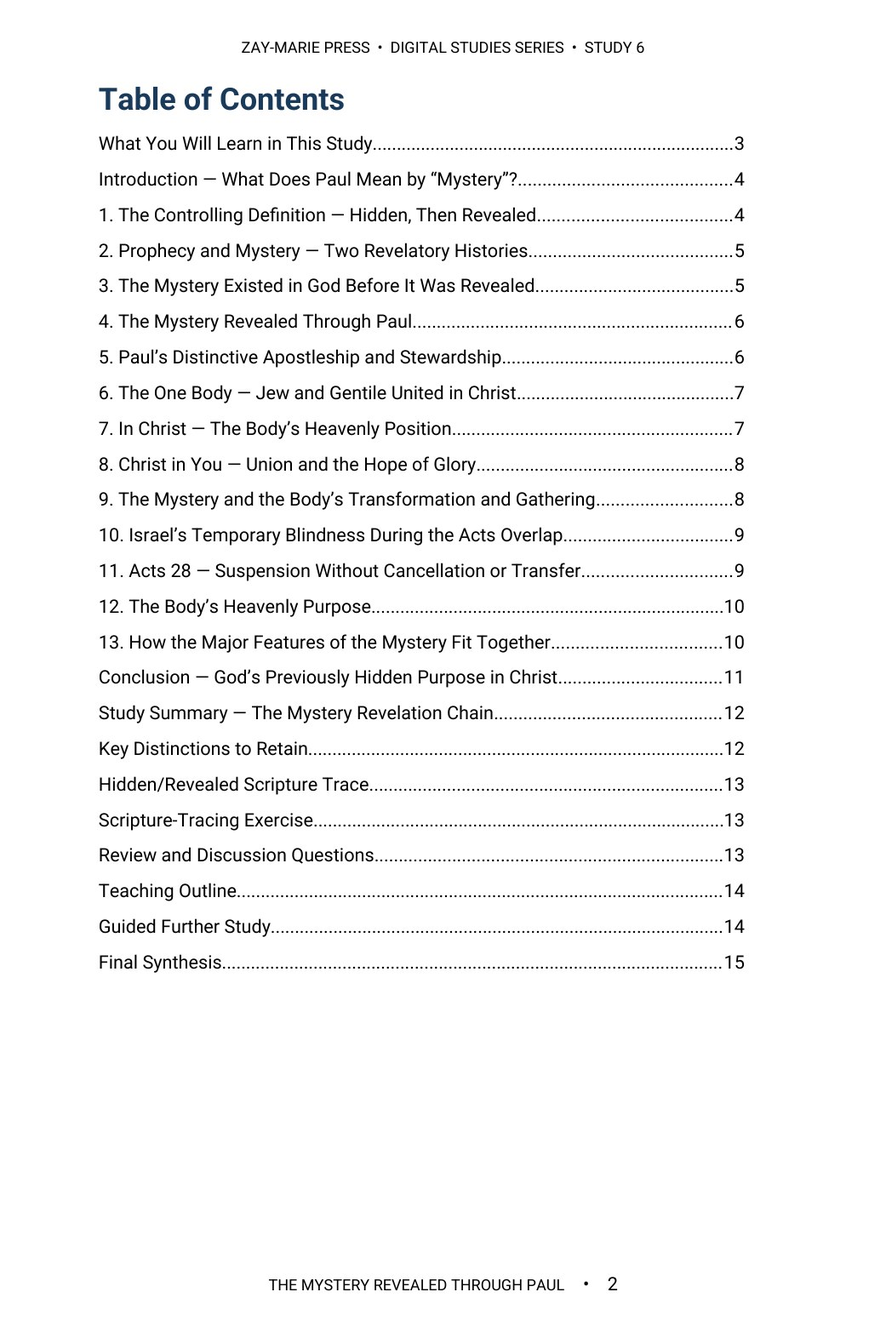
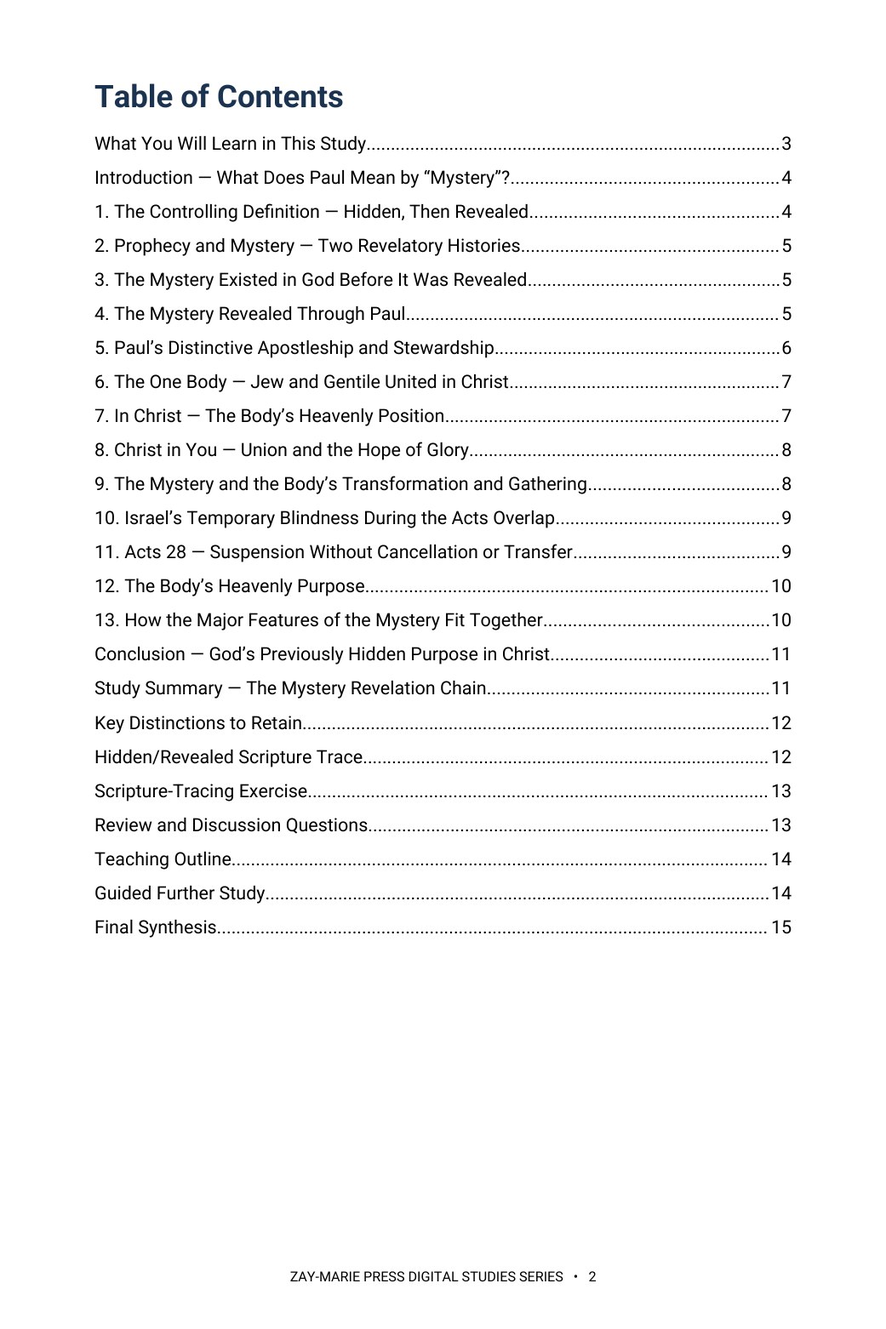
Study 6: rebuilt in Roboto at 10 pt on the current page, 15 pages; previews and trackers updated
Claude-Session: https://claude.ai/code/session_01HC7bs9KYP2scp4hCL6DkTp

diff --git a/study-06-the-mystery-revealed-through-paul.html b/study-06-the-mystery-revealed-through-paul.html
@@ -15,5 +15,5 @@
 <section class="detail-section cream"><div class="wrap"><div class="eyebrow">KEY SCRIPTURES</div><h2>Examine the Passages for Yourself</h2><div class="scripture-grid"><div class="scripture-card"><h3>Acts 3:21</h3><p>Identifies Prophecy as what God spoke through the prophets since the world began.</p></div><div class="scripture-card"><h3>Romans 16:25–26</h3><p>Describes Mystery as truth kept secret since the world began and revealed through Paul.</p></div><div class="scripture-card"><h3>Galatians 1:11–17</h3><p>Establishes Paul’s direct reception of the revelation entrusted to him.</p></div><div class="scripture-card"><h3>Ephesians 2:14–16; 3:2–10</h3><p>Explains the one Body, Paul’s stewardship, and the Body’s heavenly purpose.</p></div><div class="scripture-card"><h3>Colossians 1:25–27</h3><p>Joins the revelation of Mystery with Christ in you and the hope of glory.</p></div><div class="scripture-card"><h3>Ephesians 1:3; 2:6</h3><p>Connects the Body’s blessings and position with the heavenly places in Christ.</p></div><div class="scripture-card"><h3>1 Corinthians 15:51–52; 1 Thessalonians 4:16–17</h3><p>Establishes transformation, gathering, and enduring relationship with Christ.</p></div><div class="scripture-card"><h3>Acts 28:25–28</h3><p>Marks the suspension boundary for Israel’s active Prophecy Program while Mystery continues.</p></div></div></div></section>
 <section class="detail-section"><div class="wrap"><div class="eyebrow">FROM THE STUDY</div><h2>Hidden in God, Revealed Through Paul</h2><div class="excerpt"><blockquote>“The Mystery is God’s previously hidden purpose in Christ concerning the Body of Christ, subsequently revealed through Paul.”</blockquote><p>Its revelation does not turn previously hidden truth into previously revealed truth. The Mystery identifies a distinct purpose in Christ while allowing Israel’s prophetic promises and calling to remain exactly where Scripture places them.</p></div></div></section>
 <section class="detail-section soft"><div class="wrap"><div class="eyebrow">A LOOK INSIDE</div><h2>Preview the Study Before You Purchase</h2><p class="preview-instruction">Click any page to enlarge it for reading.</p><div class="preview-grid"><div class="preview-card"><a class="preview-image-link" data-preview-lightbox href="assets/study-06-page-2.jpg"><img src="assets/study-06-page-2.jpg" alt="Study 6 interior preview — page 2, table of contents"/></a><div class="page-no">Page 2</div><h3>Table of Contents</h3><p>See the full structure of the study, from the introduction through the final synthesis.</p></div><div class="preview-card"><a class="preview-image-link" data-preview-lightbox href="assets/study-06-page-3.jpg"><img src="assets/study-06-page-3.jpg" alt="Study 6 interior preview — page 3, what you will learn"/></a><div class="page-no">Page 3</div><h3>What You Will Learn</h3><p>See the study’s goals for identifying the Mystery by its revelatory history and the outline that carries the study forward.</p></div><div class="preview-card"><a class="preview-image-link" data-preview-lightbox href="assets/study-06-page-6.jpg"><img src="assets/study-06-page-6.jpg" alt="Study 6 interior preview — page 6, Mystery revealed through Paul"/></a><div class="page-no">Page 6</div><h3>Revealed Through Paul</h3><p>Examine Paul’s direct reception and distinctive stewardship of the Mystery.</p></div></div></div></section>
-<section class="detail-section"><div class="wrap"><div class="eyebrow">WHAT’S INCLUDED</div><h2>A Focused Study Built for<br/>Understanding and Teaching</h2><div class="includes-grid"><div class="include-item"><h3>16-Page In-Depth Biblical Study</h3><p>A sustained biblical case for the Mystery’s revelatory history and major features in Christ.</p></div><div class="include-item"><h3>13 Core Teaching Sections</h3><p>Move from hidden and revealed truth through the one Body, Acts Overlap, and heavenly purpose.</p></div><div class="include-item"><h3>Mystery Revelation Chain</h3><p>See how hidden truth, revelation through Paul, the one Body, hope, and purpose fit together.</p></div><div class="include-item"><h3>Hidden/Revealed Scripture Trace</h3><p>Build the cumulative biblical case from the language of what was spoken, hidden, and made known.</p></div><div class="include-item"><h3>18 Review Questions</h3><p>Test the study’s controls for Paul’s stewardship, the one Body, overlap, and Acts 28.</p></div><div class="include-item"><h3>Teaching Outline</h3><p>A ready framework for presenting the Mystery’s revelation, features, and interpretive controls.</p></div><div class="include-item"><h3>Eight Guided Investigations</h3><p>Study the texts for revelation, one Body, hope, Israel’s blindness, overlap, and heavenly purpose.</p></div><div class="include-item"><h3>Final Synthesis Exercise</h3><p>Write a two- to three-page explanation of the Mystery and its relation to Prophecy.</p></div></div></div></section>
-<section class="detail-section cream"><div class="wrap"><div class="final-buy"><div><div class="eyebrow">STUDY 6 · DIGITAL STUDY</div><h2>The Mystery Revealed Through Paul</h2><p>16-page digital PDF · For personal use</p></div><div class="final-offer"><div class="detail-price">$5.99</div><span class="detail-button pending" aria-disabled="true">Get the Study</span></div></div><a class="back-link" href="digital-studies.html">← Back to All Digital Studies</a></div></section><section class="study-method-course-bridge"><div class="wrap"><div class="study-method-course-panel"><div><div class="eyebrow">BUILD THE INTERPRETIVE METHOD</div><h2>Want More Than a Focused Study?</h2><p>Digital Studies examine particular biblical subjects and difficult passages. The 40-lesson Biblical Hermeneutics course teaches a complete, repeatable method for establishing meaning in context, determining proper assignment, and making responsible application.</p></div><a class="btn btn-primary" href="biblical-hermeneutics-course.html">BIBLICAL HERMENEUTICS COURSE</a></div></div></section></main><div class="preview-lightbox" id="preview-lightbox" role="dialog" aria-modal="true" aria-label="Enlarged study page preview"><button class="preview-lightbox-close" type="button" aria-label="Close enlarged preview">×</button><img src="" alt=""/><div class="preview-lightbox-hint">Scroll to read the full page · Press Esc or click outside the page to close</div></div><footer class="site-footer"><div class="wrap footer-grid"><div class="footer-about"><h3>Zay-Marie Press</h3><p class="footer-tagline"><em>Where the Bible Means What It Says.</em></p><p>Zay-Marie Press is a Christian theological publisher dedicated to producing doctrinally precise, carefully structured biblical resources that equip pastors, teachers, and serious students with clarity, depth, and Scripture-anchored truth.</p><p><a href="https://zaymariepress.com">zaymariepress.com</a><br/><a href="mailto:info@zaymariepress.com">info@zaymariepress.com</a></p></div><div class="footer-column"><h3>Explore</h3><div class="footer-links-stacked"><a href="books.html">Books</a><br/><a href="series.html">Series</a><br/><a href="biblical-hermeneutics-course.html">Course</a><br/><a href="digital-studies.html">Digital Studies</a><br/><a href="resources.html">Resources</a><br/><a href="bible-book-summaries.html">Bible Book Summaries</a><br/><a href="doctrinal-packets.html">Doctrinal Packets</a><br/><a href="historical-drift.html">Historical Drift</a><br/><a href="about.html">About</a><br/><a href="contact.html">Contact</a></div></div><div class="footer-column"><h3>Reader Support</h3><div class="footer-links-stacked"><a href="reader-support.html#faq">FAQ</a><br/><a href="reader-support.html#shipping-returns">Shipping &amp; Returns</a><br/><a href="reader-support.html#digital-downloads">Digital Downloads</a><br/><a href="reader-support.html#contact-support">Contact Support</a></div></div><div class="footer-column"><h3>Acts Overlap</h3><p><strong>Acts Overlap Theology Series</strong></p><p><em>Two Distinct Streams. One Overlap.</em></p><p><a href="series.html">Series Overview</a></p></div></div><div class="wrap footer-bottom">© 2026 Zay-Marie Press. All rights reserved.</div></footer><script src="site.js"></script><script>(function(){var box=document.getElementById("preview-lightbox"),img=box.querySelector("img"),close=box.querySelector(".preview-lightbox-close"),hint=box.querySelector(".preview-lightbox-hint"),hintTimer;function shut(){clearTimeout(hintTimer);box.classList.remove("open");hint.classList.remove("fade");document.body.style.overflow="";img.src=""}document.querySelectorAll("[data-preview-lightbox]").forEach(function(a){a.addEventListener("click",function(e){e.preventDefault();clearTimeout(hintTimer);img.src=a.getAttribute("href");img.alt=a.querySelector("img").alt;hint.classList.remove("fade");box.classList.add("open");document.body.style.overflow="hidden";box.scrollTop=0;hintTimer=setTimeout(function(){hint.classList.add("fade")},3000)})});close.addEventListener("click",shut);box.addEventListener("click",function(e){if(e.target===box)shut()});document.addEventListener("keydown",function(e){if(e.key==="Escape"&&box.classList.contains("open"))shut()})})();</script></body></html>
+<section class="detail-section"><div class="wrap"><div class="eyebrow">WHAT’S INCLUDED</div><h2>A Focused Study Built for<br/>Understanding and Teaching</h2><div class="includes-grid"><div class="include-item"><h3>15-Page In-Depth Biblical Study</h3><p>A sustained biblical case for the Mystery’s revelatory history and major features in Christ.</p></div><div class="include-item"><h3>13 Core Teaching Sections</h3><p>Move from hidden and revealed truth through the one Body, Acts Overlap, and heavenly purpose.</p></div><div class="include-item"><h3>Mystery Revelation Chain</h3><p>See how hidden truth, revelation through Paul, the one Body, hope, and purpose fit together.</p></div><div class="include-item"><h3>Hidden/Revealed Scripture Trace</h3><p>Build the cumulative biblical case from the language of what was spoken, hidden, and made known.</p></div><div class="include-item"><h3>18 Review Questions</h3><p>Test the study’s controls for Paul’s stewardship, the one Body, overlap, and Acts 28.</p></div><div class="include-item"><h3>Teaching Outline</h3><p>A ready framework for presenting the Mystery’s revelation, features, and interpretive controls.</p></div><div class="include-item"><h3>Eight Guided Investigations</h3><p>Study the texts for revelation, one Body, hope, Israel’s blindness, overlap, and heavenly purpose.</p></div><div class="include-item"><h3>Final Synthesis Exercise</h3><p>Write a two- to three-page explanation of the Mystery and its relation to Prophecy.</p></div></div></div></section>
+<section class="detail-section cream"><div class="wrap"><div class="final-buy"><div><div class="eyebrow">STUDY 6 · DIGITAL STUDY</div><h2>The Mystery Revealed Through Paul</h2><p>15-page digital PDF · For personal use</p></div><div class="final-offer"><div class="detail-price">$5.99</div><span class="detail-button pending" aria-disabled="true">Get the Study</span></div></div><a class="back-link" href="digital-studies.html">← Back to All Digital Studies</a></div></section><section class="study-method-course-bridge"><div class="wrap"><div class="study-method-course-panel"><div><div class="eyebrow">BUILD THE INTERPRETIVE METHOD</div><h2>Want More Than a Focused Study?</h2><p>Digital Studies examine particular biblical subjects and difficult passages. The 40-lesson Biblical Hermeneutics course teaches a complete, repeatable method for establishing meaning in context, determining proper assignment, and making responsible application.</p></div><a class="btn btn-primary" href="biblical-hermeneutics-course.html">BIBLICAL HERMENEUTICS COURSE</a></div></div></section></main><div class="preview-lightbox" id="preview-lightbox" role="dialog" aria-modal="true" aria-label="Enlarged study page preview"><button class="preview-lightbox-close" type="button" aria-label="Close enlarged preview">×</button><img src="" alt=""/><div class="preview-lightbox-hint">Scroll to read the full page · Press Esc or click outside the page to close</div></div><footer class="site-footer"><div class="wrap footer-grid"><div class="footer-about"><h3>Zay-Marie Press</h3><p class="footer-tagline"><em>Where the Bible Means What It Says.</em></p><p>Zay-Marie Press is a Christian theological publisher dedicated to producing doctrinally precise, carefully structured biblical resources that equip pastors, teachers, and serious students with clarity, depth, and Scripture-anchored truth.</p><p><a href="https://zaymariepress.com">zaymariepress.com</a><br/><a href="mailto:info@zaymariepress.com">info@zaymariepress.com</a></p></div><div class="footer-column"><h3>Explore</h3><div class="footer-links-stacked"><a href="books.html">Books</a><br/><a href="series.html">Series</a><br/><a href="biblical-hermeneutics-course.html">Course</a><br/><a href="digital-studies.html">Digital Studies</a><br/><a href="resources.html">Resources</a><br/><a href="bible-book-summaries.html">Bible Book Summaries</a><br/><a href="doctrinal-packets.html">Doctrinal Packets</a><br/><a href="historical-drift.html">Historical Drift</a><br/><a href="about.html">About</a><br/><a href="contact.html">Contact</a></div></div><div class="footer-column"><h3>Reader Support</h3><div class="footer-links-stacked"><a href="reader-support.html#faq">FAQ</a><br/><a href="reader-support.html#shipping-returns">Shipping &amp; Returns</a><br/><a href="reader-support.html#digital-downloads">Digital Downloads</a><br/><a href="reader-support.html#contact-support">Contact Support</a></div></div><div class="footer-column"><h3>Acts Overlap</h3><p><strong>Acts Overlap Theology Series</strong></p><p><em>Two Distinct Streams. One Overlap.</em></p><p><a href="series.html">Series Overview</a></p></div></div><div class="wrap footer-bottom">© 2026 Zay-Marie Press. All rights reserved.</div></footer><script src="site.js"></script><script>(function(){var box=document.getElementById("preview-lightbox"),img=box.querySelector("img"),close=box.querySelector(".preview-lightbox-close"),hint=box.querySelector(".preview-lightbox-hint"),hintTimer;function shut(){clearTimeout(hintTimer);box.classList.remove("open");hint.classList.remove("fade");document.body.style.overflow="";img.src=""}document.querySelectorAll("[data-preview-lightbox]").forEach(function(a){a.addEventListener("click",function(e){e.preventDefault();clearTimeout(hintTimer);img.src=a.getAttribute("href");img.alt=a.querySelector("img").alt;hint.classList.remove("fade");box.classList.add("open");document.body.style.overflow="hidden";box.scrollTop=0;hintTimer=setTimeout(function(){hint.classList.add("fade")},3000)})});close.addEventListener("click",shut);box.addEventListener("click",function(e){if(e.target===box)shut()});document.addEventListener("keydown",function(e){if(e.key==="Escape"&&box.classList.contains("open"))shut()})})();</script></body></html>

diff --git a/site.js b/site.js
@@ -62,7 +62,7 @@ const resourceModal=document.querySelector('#resource-modal'), resourceModalTitl
 if(resourceModal&&resourceModalTriggers.length){const closeResourceModal=()=>{resourceModal.hidden=true;document.body.classList.remove('resource-modal-open');lastResourceTrigger?.focus();};resourceModalTriggers.forEach(trigger=>trigger.addEventListener('click',()=>{lastResourceTrigger=trigger;if(resourceModalTitle)resourceModalTitle.textContent=trigger.dataset.title||'Resource';if(resourceModalDescription)resourceModalDescription.textContent=trigger.dataset.description||'';if(resourceModalLink){resourceModalLink.href=trigger.dataset.href||'#';resourceModalLink.textContent=trigger.dataset.linkText||'OPEN RESOURCE';}resourceModal.hidden=false;document.body.classList.add('resource-modal-open');resourceModalClose?.focus();}));resourceModalClose?.addEventListener('click',closeResourceModal);resourceModal.addEventListener('click',e=>{if(e.target===resourceModal)closeResourceModal();});document.addEventListener('keydown',e=>{if(e.key==='Escape'&&!resourceModal.hidden)closeResourceModal();});}
 
 /* Display the verified final-PDF page count at the primary purchase decision point. */
-const digitalStudyPageCounts={1:17,2:19,3:16,4:17,5:15,6:16,7:14,8:13,9:16,10:20,11:15,12:15,13:19,14:15,15:15,16:16,17:18,18:18,19:16,20:16,21:17,22:16,23:14,24:16,25:17,26:16,27:16,28:16,29:19,30:17,31:18,32:19,33:18,34:16,35:16,36:16,37:16,38:16,39:16,40:16,41:16,42:17,43:17,44:19,45:19,46:20,47:19,48:18,49:20,50:19,51:20,52:19,53:19,54:17,55:20,56:20,57:20,58:19,59:20,60:15,61:16,62:18,63:17,64:17,65:16,66:16,67:17,68:16,69:17,70:17,71:16};
+const digitalStudyPageCounts={1:17,2:19,3:16,4:17,5:15,6:15,7:14,8:13,9:16,10:20,11:15,12:15,13:19,14:15,15:15,16:16,17:18,18:18,19:16,20:16,21:17,22:16,23:14,24:16,25:17,26:16,27:16,28:16,29:19,30:17,31:18,32:19,33:18,34:16,35:16,36:16,37:16,38:16,39:16,40:16,41:16,42:17,43:17,44:19,45:19,46:20,47:19,48:18,49:20,50:19,51:20,52:19,53:19,54:17,55:20,56:20,57:20,58:19,59:20,60:15,61:16,62:18,63:17,64:17,65:16,66:16,67:17,68:16,69:17,70:17,71:16};
 const digitalStudyMatch=window.location.pathname.match(/\/study-(\d+)-/i);
 const digitalStudyFormat=document.querySelector('.detail-hero .detail-format');
 if(digitalStudyMatch&&digitalStudyFormat){const studyNumber=Number(digitalStudyMatch[1]),pageCount=digitalStudyPageCounts[studyNumber];if(pageCount)digitalStudyFormat.textContent=`Digital PDF · ${pageCount} Pages`;}

diff --git a/CLAUDE.md b/CLAUDE.md
@@ -23,7 +23,7 @@ These are kept in the repo at `controlling-documents/` and are the current versi
 - As of v1.50 (publisher directive, 2026-10-03), the **What You Will Learn in This Study** section is always bulleted, never set as running paragraphs, written into this file in the same pass (Master Standard Section 3 item 4, Section 6 structure line, Section 22): a list of bullet points, each describing one process, textual marker or interpretive discipline the reader will practice (Section 17 still governs what they may say); at most one short lead-in line may stand above the bullets (for example, “By the end of this study, you should be able to:”); the Study Goal callout and the Study Outline keep their own forms. It governs every new study and every study rebuilt or retrofitted from now on; earlier studies take it when reopened or when the publisher directs. In every study check (Step 1), report whether the section is bulleted. First applied to Study 43.
 **`controlling-documents/Digital_Studies_Relationship_Map_v1.39.md`** — records each study's distinct subject, its related studies, the eight priced six-study collections, the Paul's Missionary Journeys cross-reference map, and the five primary catalog categories (currently version 1.39, covers Studies 1–71; update it as new studies publish, bump the version number, rename the file to match, and log the change in its own version-history table — mirroring the Master Standard's `_vX.Y` filename convention). Check a proposed topic against it before recommending or writing a new study. (2026-09-28: the file was missing from this repo despite this note referencing it; replaced from the publisher's copy and bumped v1.15→v1.25 in the same pass. If this note ever again points to a version not present under `controlling-documents/`, ask the publisher for a copy rather than proceeding without the check.)
 - **`controlling-documents/Digital_Studies_Category_Standard_v1.1.md`** — FINAL and binding (publisher, 2026-10-01): the rules for the five primary catalog categories (Foundations, Israel & Prophecy, Body of Christ, Passages, Doctrinal Themes), the ordered decision procedure for new studies, the precedents, all 71 fixed assignments, and the cover-label form for each category. Read it before placing any card or cover label. Do not ask the publisher where a study belongs; apply the procedure and state the result. Only the publisher changes a ruling; then bump this Standard's version and filename, re-letter the cover, and update the Relationship Map.
-- **`controlling-documents/Doctrinal_Upgrade_Retrofit_Plan_v1.98.md`** — working tracker for retrofitting Studies 1–59 to the 2026-10-02 doctrinal upgrade (Framework/PAM v1.1, Master Standard v1.40, Rules 7–17): withdrawn-wording search keys, impact tiers, waves and the per-study method. Read it before continuing the retrofit in any session; update status, bump the version and rename the file as work proceeds.
+- **`controlling-documents/Doctrinal_Upgrade_Retrofit_Plan_v1.99.md`** — working tracker for retrofitting Studies 1–59 to the 2026-10-02 doctrinal upgrade (Framework/PAM v1.1, Master Standard v1.40, Rules 7–17): withdrawn-wording search keys, impact tiers, waves and the per-study method. Read it before continuing the retrofit in any session; update status, bump the version and rename the file as work proceeds.
 - **`controlling-documents/Doctrinal_Packet_Standard_v0.3.md`** — Doctrinal Packet Standard (DRAFT; §7 approved). Governs the separate Doctrinal Packets product strand (5-page interpretive PDFs per Bible book — a print-friendly cover as page 1 plus 4 content pages, $2.99, KJV, pilot: Genesis, live at `packet-genesis.html`, hub `doctrinal-packets.html`; site pages say "5 Pages", cover styles live in `packets.css`, Old Testament blue and New Testament soft pale green, hub listed in Bible order). **Preview rule (publisher directive, 2026-09-29, packets only):** previews show about one page's worth in two cropped views (top of page 1 through the anchor texts; the chart section) — never the exegesis, architecture, Mystery contrast, logic chain, outline, or closing. Master Standard §16/§17 still govern Digital Studies. Bump the version and rename the file as the Standard is finalized.
 - **`controlling-documents/Preview_Page_Spoiler_Retrofit_Audit_v1.4.md`** — working tracker for the Studies 1–60 preview-page conclusion-spoiler retrofit (see the section below). Read it before continuing that audit in any session; update its status fields and changelog, bump the version, and rename the file to match as the audit proceeds — same `_vX.Y` convention as the other controlling documents. As of v1.1, the website-side half was DONE: all 60 studies' "What You'll Study" text was judged against the rule (methodology documented in the file) and 22 points across 11 studies were rewritten and pushed; an unrelated Study 22 content bug (Study 21's content had leaked into it) was also found and fixed. As of v1.2, the publisher supplied Studies 1–60's interior production PDFs and the interior-PDF half was also surveyed (read-only): 10 studies (37, 41, 45, 47, 48, 49, 51, 52, 53, 54) were found to have at least one interior "What You Will Learn" violation, 50 studies were confirmed compliant, and the orphaned `assets/study-45-sanctification-under-grace.docx` (removed from the repo per the publisher in v1.0) was confirmed word-for-word identical to Study 45's actual production interior PDF content. As of v1.3, the publisher supplied editable DOCX sources for all 10 violating studies; all 15 violating points were rewritten and approved, delivered as corrected final PDFs, and — along the way — a second defect was found and fixed (Studies 47 and 48's source DOCX still had an unintegrated cover placeholder despite both being long-published live with real covers; fixed by inserting the existing approved cover art). The website's "What You Will Learn" preview image (`study-NN-page-3.jpg`) was regenerated from the corrected content for all 10 studies and pushed to `main` (commit `cea1859`), verified against a fresh clone. **The website side of this audit is now fully compliant for all 60 studies.** Outstanding: the publisher's purchasable interior PDF files themselves have corrected versions delivered, but distribution to existing purchasers was decided by the publisher on 2026-09-29: silent swap of the files behind the existing downloads, no reissue notice (recorded in the v1.4 changelog entry; the product files are not in this repo).
 

diff --git a/controlling-documents/Doctrinal_Upgrade_Retrofit_Plan_v1.99.md b/controlling-documents/Doctrinal_Upgrade_Retrofit_Plan_v1.99.md
@@ -191,3 +191,4 @@ Working tracker for correcting published studies to the Framework/PAM v1.1, Mast
 - v1.96 (2026-10-04): Study 4 rebuilt in Roboto at 10 pt on the current page (first of the old-page-size items), 17 pages (was 18). Rule 19 wording corrected in section 4; overlap and Rule 17 sentences added; resumption wording softened; What You Will Learn bullets reworded to process lines. Callouts already 5. Previews 2, 3 and 6 re-rendered at 1041×1562; site.js 4:17; study page text 17 Pages.
 - v1.97 (2026-10-04): Study 5 rebuilt in Roboto at 10 pt on the current page, 15 pages (was 16). 23 callouts reduced to 5 (extras as run-in paragraphs, wording unchanged); What You Will Learn bullet 10 reworded; overlap and Rule 17 sentences added; section 7 resumption wording softened; Hebrews 3:1 sentence added. Roboto has no arrow glyph, so '→' is set as '›' and '□' as '[ ]' (arrow choice flagged to the publisher). Previews 2, 3 and 7 re-rendered at 1041×1562 (hope page moved from 8 to 7); site.js 5:15; study page 15 pages.
 - v1.98 (2026-10-04): Publisher ruling — Roboto has no arrow glyph, so every '→' in a study is set as '»' (Roboto-only rule holds; no fallback font). Study 5 changed from '›' to '»'; previews 2, 3 and 7 re-rendered; page count unchanged (15). Apply to every later study that uses arrows. Rule-sync note: this is a drafting convention recorded in the Plan; the publisher has not asked for it to be written into the Master Standard.
+- v1.99 (2026-10-04): Study 6 rebuilt in Roboto at 10 pt on the current page, 15 pages (was 16). 23 callouts reduced to 5; WYWL bullets 1, 3, 5, 9 reworded; Romans 11 four-point list and triad added; overlap and Rule 17 sentences added; resumption wording softened; arrows » and checkboxes [ ]. Previews 2, 3 and 6 re-rendered at 1041×1562; site.js 6:15; study page 15 pages.

diff --git a/controlling-documents/Digital_Studies_PAM_Audit_v1.193.md b/controlling-documents/Digital_Studies_PAM_Audit_v1.193.md
@@ -422,3 +422,4 @@ Study 15 PDF not yet supplied. Typography: none of Studies 2, 3, 6, 8 is in EB G
 - v1.190 (2026-10-04): Study 4 rebuilt in Roboto at 10 pt on the current page from the publisher's DOCX, 17 pages (was 18; old 432×648 page retired). Changes: What You Will Learn set as bullets under one lead-in (bullets 3, 4 and 9 reworded as process lines); Rule 19 correction in section 4 (finished-work/saving-efficacy sentences replaced); overlap and Rule 17 sentences added to section 9; section 10 resumption wording softened; outlines numbered 1–N (see Retrofit Plan v1.96).
 - v1.191 (2026-10-04): Study 5 rebuilt in Roboto at 10 pt on the current page from the publisher's DOCX, 15 pages (was 16; old 432×648 page retired). Changes: What You Will Learn set as bullets under one lead-in (bullet 10 reworded as a process line); 18 extra callouts set as run-in paragraphs (5 boxed); overlap and Rule 17 sentences added; section 7 resumption wording softened; Hebrews 3:1 reading sentence added; 'Study #5' references removed; Teaching Outline numbered; arrow glyph replaced with a Roboto character (see Retrofit Plan v1.97).
 - v1.192 (2026-10-04): Study 5 chain arrow set as '»' (publisher ruling; see Retrofit Plan v1.98).
+- v1.193 (2026-10-04): Study 6 rebuilt in Roboto at 10 pt on the current page from the publisher's DOCX, 15 pages (was 16; old 432×648 page retired). Changes: What You Will Learn as bullets under one lead-in (bullets 1, 3, 5, 9 reworded to process lines); 18 extra callouts set as run-in paragraphs (5 boxed); Romans 11 four-point list and triad added to section 10; overlap and Rule 17 sentences added; section 11 resumption wording softened; arrows set as » (see Retrofit Plan v1.99).
